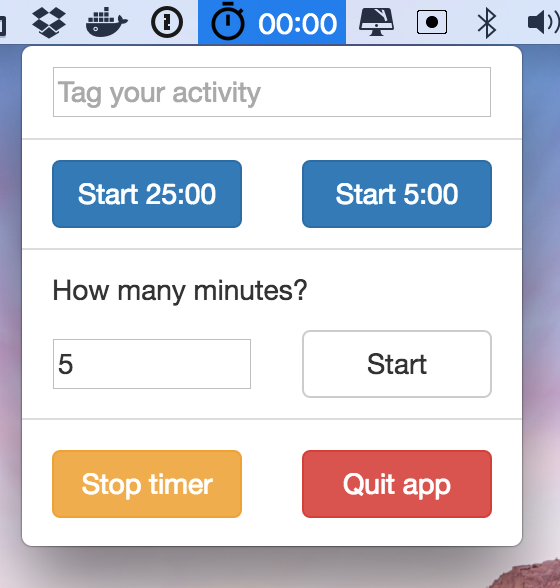
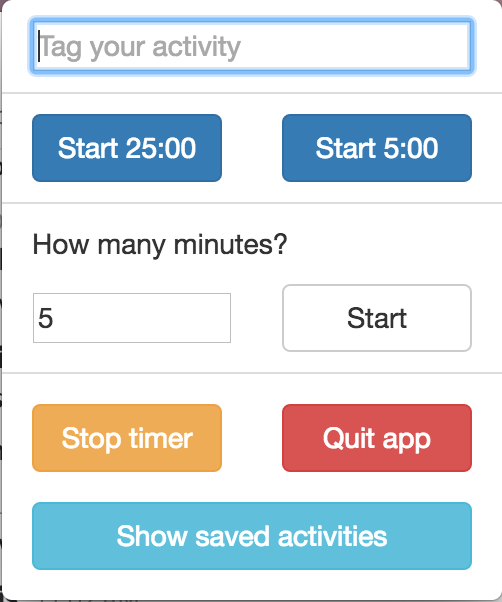
Update README

diff --git a/README.md b/README.md
@@ -23,6 +23,10 @@ and this is the overlay when the time is up :)
 
 ![timer selection](/times-up-overlay.png)
 
+there is also a view for the recorder activities
+
+![timer selection](/activities.png)
+
 
 # Development
 
